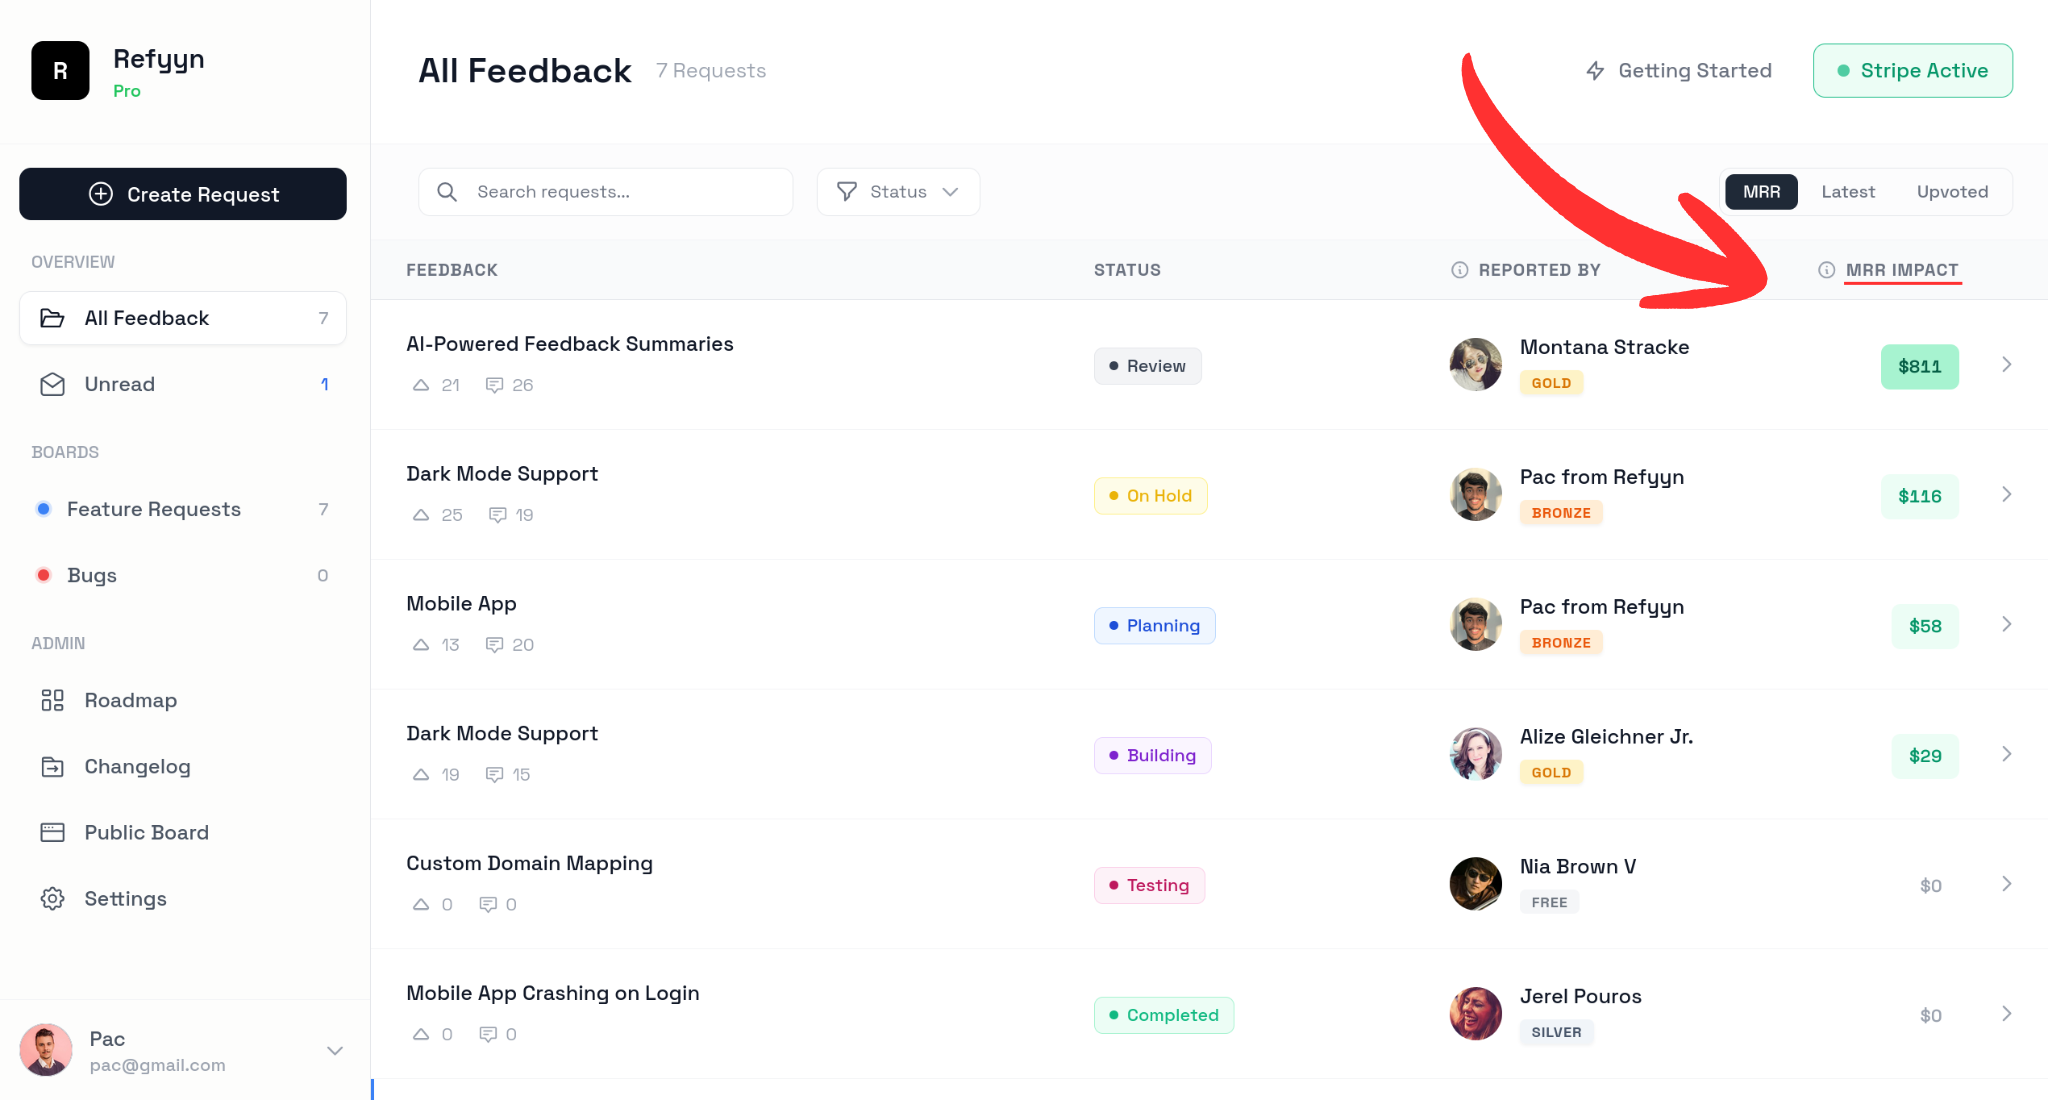
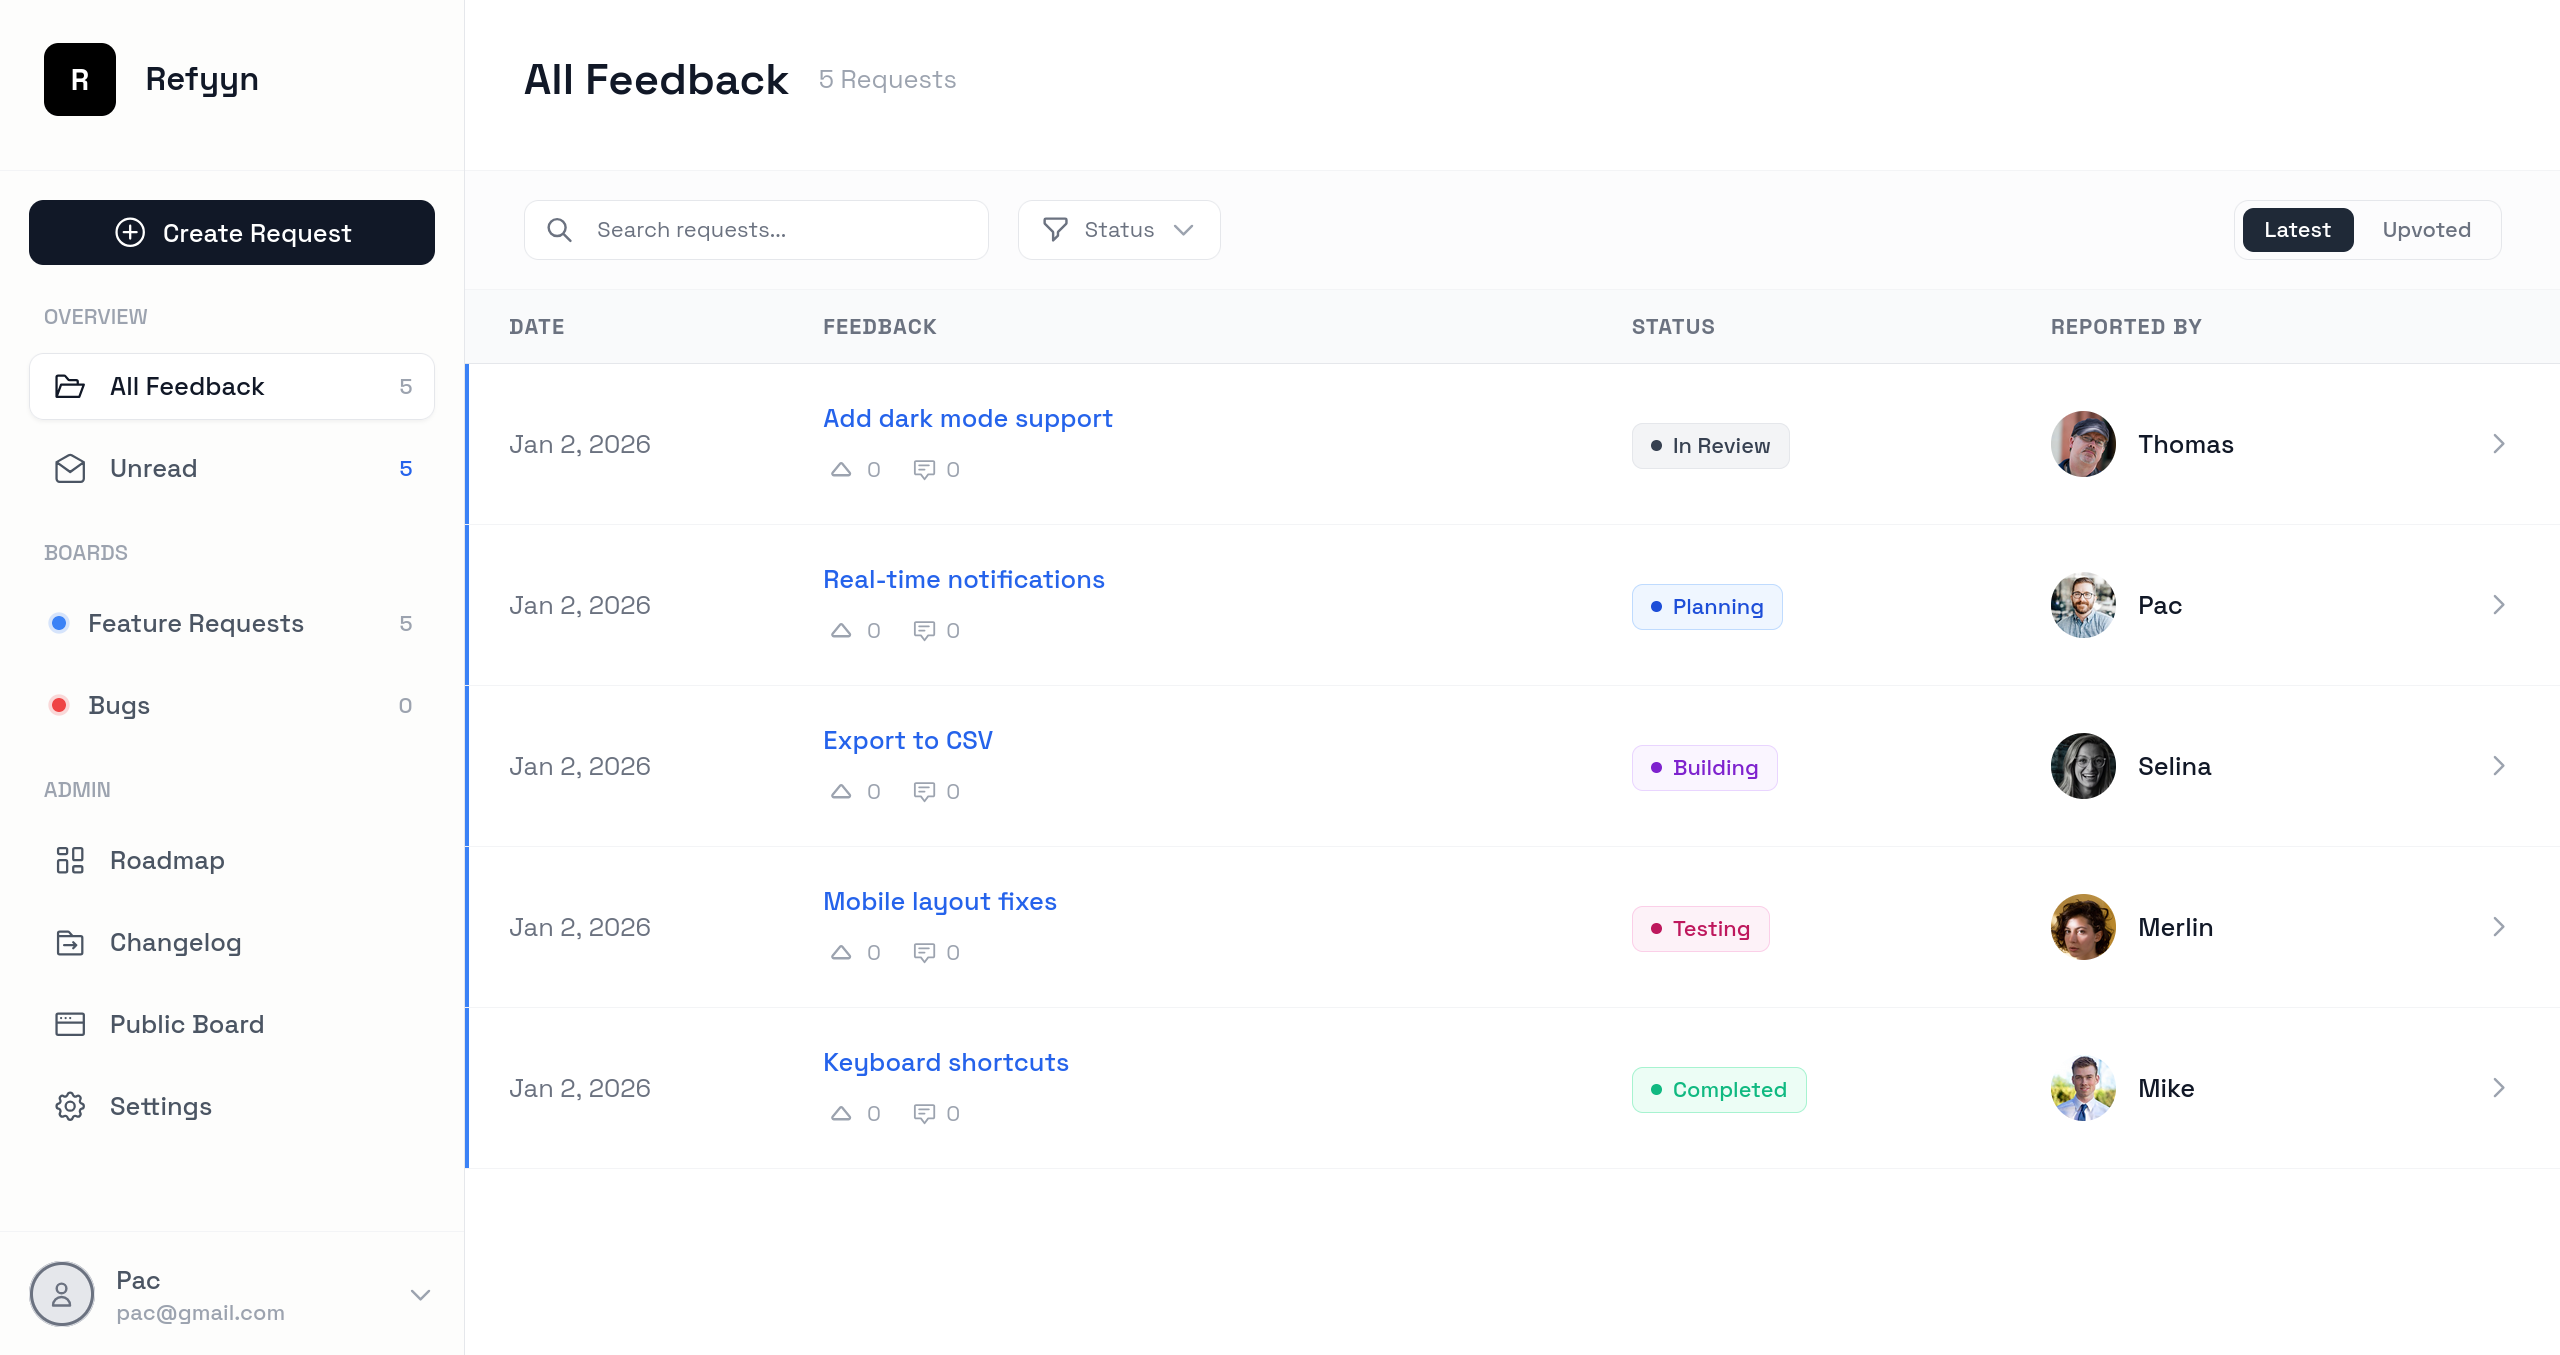
Initial Commit

diff --git a/resources/js/Pages/Admin/Dashboard.vue b/resources/js/Pages/Admin/Dashboard.vue
@@ -246,10 +246,13 @@ const selectItem = (item) => {
                 <table class="w-full">
                     <thead class="sticky top-0 z-10 bg-white font-bold">
                     <tr class="border-b border-gray-200 bg-gray-50">
-                        <th class="w-[50%] py-3 px-6 text-left text-xs text-gray-500 uppercase tracking-wider">
+                        <th class="w-[10%] py-3 px-6 text-left text-xs text-gray-500 uppercase tracking-wider">
+                            Date
+                        </th>
+                        <th class="w-[45%] py-3 px-6 text-left text-xs text-gray-500 uppercase tracking-wider">
                             Feedback
                         </th>
-                        <th class="w-[25%] py-3 px-2 text-left text-xs text-gray-500 uppercase tracking-wider">
+                        <th class="w-[20%] py-3 px-2 text-left text-xs text-gray-500 uppercase tracking-wider">
                             Status
                         </th>
                         <th class="w-[20%] py-3 px-2 text-left text-xs text-gray-500 uppercase tracking-wider">
@@ -274,6 +277,12 @@ const selectItem = (item) => {
                                 v-if="isUnread(feedback)"
                                 class="absolute left-0 top-0 bottom-0 w-0.5 bg-blue-500"
                             ></div>
+                            <div class="text-xs text-gray-500">
+                                {{ new Date(feedback.created_at).toLocaleDateString('en-US', { month: 'short', day: 'numeric', year: 'numeric' }) }}
+                            </div>
+                        </td>
+
+                        <td class="py-5 px-6">
                             <div class="flex flex-col gap-1">
                                 <div :class="[
                                     'text-sm font-medium transition-colors group-hover:text-blue-600',
